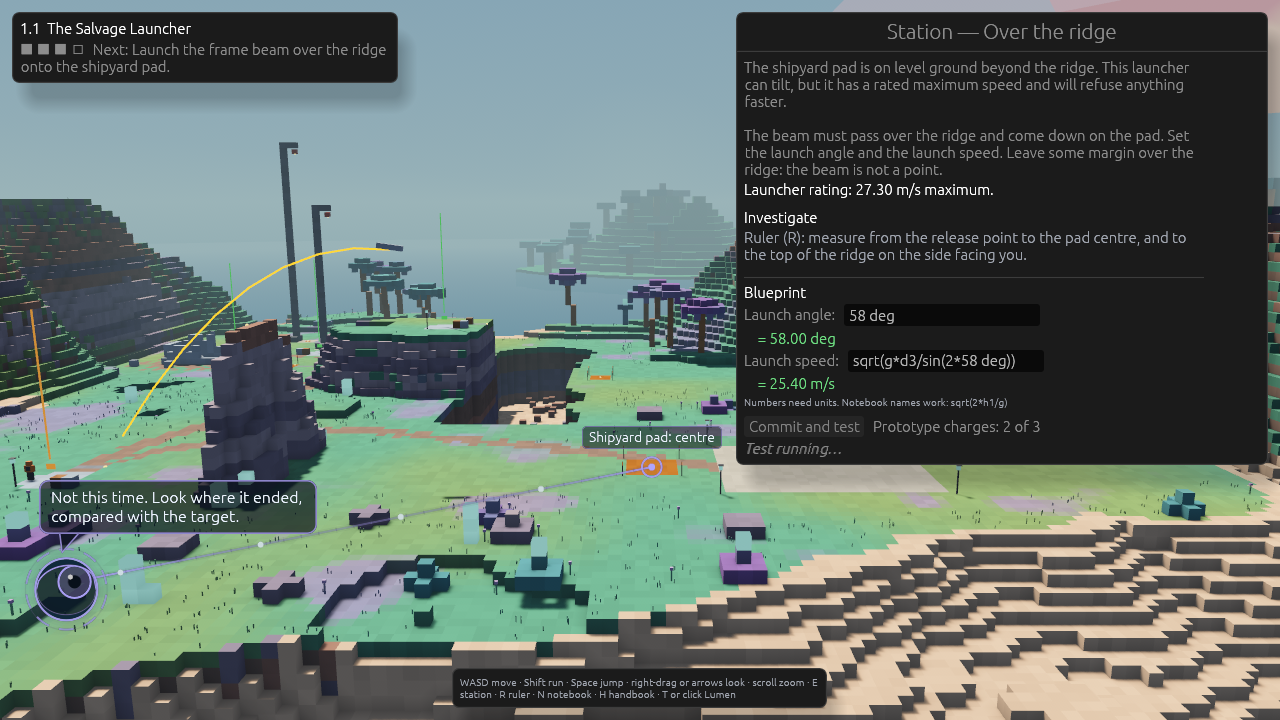
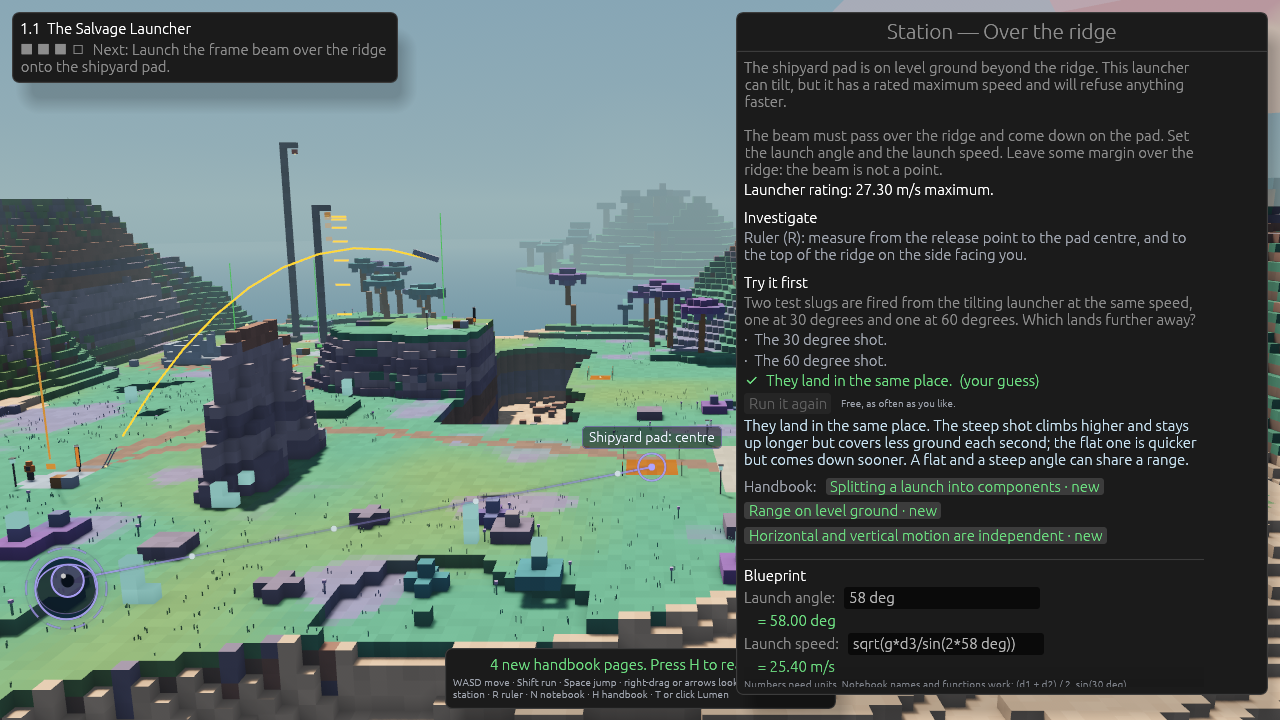
Tour the experiments and the rig; document how pages are found
- The tour guesses and runs each station's experiment, checks the pages it
  writes, shows the handbook with a locked page early and focused on a page
  at the end, and photographs the launcher rig.
- Design, curriculum, architecture and tutor docs describe the experiments,
  pages found in the world, and the rig. README shows the canyon experiment;
  the test screenshot is refreshed.

Claude-Session: https://claude.ai/code/session_01LwuCMLCEoEA1VxoJBbuWy1

diff --git a/game/src/devscript.rs b/game/src/devscript.rs
@@ -183,6 +183,7 @@ fn tour(game: &Game, sites: &Sites) -> Vec<Step> {
         Shot("11a_drop_and_fire"),
         WaitIdle,
         ExpectFound { page: "independence", within: 2.0 },
+        Wait(0.5),
         Shot("11b_drop_and_fire_landed"),
         Wait(3.0),
         RulerPin(4),
@@ -219,6 +220,7 @@ fn tour(game: &Game, sites: &Sites) -> Vec<Step> {
         Shot("16a_two_angles"),
         WaitIdle,
         ExpectFound { page: "range", within: 2.0 },
+        Wait(0.5),
         Shot("16b_two_angles_landed"),
         Wait(3.0),
         RulerPin(6),
@@ -231,6 +233,14 @@ fn tour(game: &Game, sites: &Sites) -> Vec<Step> {
         Wait(2.0),
         Shot("17_ridge_struck"),
         Draft(3, vec![format!("{angle} deg"), format!("sqrt(g*d3/sin(2*{angle} deg))")]),
+        // The launcher shows the blueprint before anything is committed: the arm tilts, the gauge fills.
+        Watch(Some(sites.ridge_launch.origin + sites.ridge_launch.direction * 1.5 + Vec3::Y * 1.2)),
+        Look { yaw: -0.75, pitch: 0.2, distance: 9.5 },
+        Wait(1.5),
+        Shot("17b_launcher_shows_the_blueprint"),
+        Watch(None),
+        Look { yaw: -1.15, pitch: 0.4, distance: 34.0 },
+        Wait(0.5),
         Commit(3),
         Wait(1.8),
         Shot("18_ridge_flight"),

diff --git a/docs/curriculum.md b/docs/curriculum.md
@@ -84,12 +84,17 @@ value never works. All lengths are whole metres so they can be checked by counti
 - **Pass.** The cart stops on the marker (one block, so centre ± 0.5 m). Too short or too far is
   reported in metres. The rail is 24 m long; longer runs are refused.
 - **Gates.** Puzzle 1 requires it.
+- **First page.** The first value committed here, tested or refused, writes *Measurements carry
+  units*: the handbook is met in the tutorial.
 
 ### Puzzle 1 — Local gravity
 
 - **Brief.** The launcher needs this planet's gravitational acceleration.
 - **Investigate.** Measure the drop tower's height with the ruler. Release the test mass and time the
   fall with the stopwatch (free, repeatable).
+- **Try it first.** "How will flashes at equal moments be spaced?" Evenly / further apart lower down /
+  closer together. The release is the experiment: the flashes leave afterimages and ticks whose
+  gaps grow. Writes the page *Free fall*.
 - **Predict.** Enter `g`.
 - **Test.** A second mass is released from the taller survey mast. The station shows the fall time
   predicted from the player's `g` beside the measured one.
@@ -102,6 +107,10 @@ value never works. All lengths are whole metres so they can be checked by counti
 - **Brief.** Launch a salvage crate horizontally from the ledge so it lands on the platform on the far
   side.
 - **Investigate.** Ruler: horizontal distance to the platform centre, and the drop from the ledge.
+- **Try it first.** "One crate dropped, one fired sideways, at the same moment: which reaches the
+  canyon floor first?" Both at once. The fired crate is slow enough to land mid-canyon; both fall the
+  ledge plus the canyon's depth, not the drop to the platform, so the time is not the puzzle's.
+  Writes *Horizontal and vertical motion are independent*.
 - **Predict.** Enter the launch speed.
 - **Pass.** The crate lands on the platform (centre ± 1.5 m).
 - **Relations.** `t = sqrt(2h/g)`, `d = v t`.
@@ -111,6 +120,9 @@ value never works. All lengths are whole metres so they can be checked by counti
 - **Brief.** Launch the frame beam over the ridge onto the shipyard pad. The launcher has a maximum
   speed.
 - **Investigate.** Ruler: distance to the pad, distance to the ridge, height of the ridge.
+- **Try it first.** "Two slugs at the same speed, 30 and 60 degrees: which lands further away?" The
+  same place, at 0.6 of the distance to the ridge, well short of it. Writes *Splitting a launch into
+  components* and *Range on level ground*.
 - **Predict.** Enter the launch angle and the launch speed.
 - **Pass.** The beam passes over the ridge without touching it and lands on the pad (5 m long, so
   centre ± 2.5 m). The tracked point is the beam's underside; the brief tells the player to leave margin.

diff --git a/docs/game-design.md b/docs/game-design.md
@@ -69,7 +69,11 @@ Every puzzle runs through the same five steps at a **station** (a workbench in t
 
 1. **Brief.** What the ship part must do, as a specification with tolerances.
 2. **Investigate.** Measure the world. Readings go to the notebook under a short name (`h1`, `t1`).
-   Experiments in this step are free and repeatable.
+   Each physics station also has an experiment to **try first**. It shows the idea the puzzle rests
+   on: a strobe on the falling test mass, a crate dropped beside one fired off the ledge, two shots
+   at complementary angles. The player picks what they expect from a few choices (no numbers), then
+   watches. Experiments are free and repeatable and give no answer away. Watching one writes its
+   pages into the handbook.
 3. **Predict.** Enter values, with units, in the blueprint panel. The calculator accepts expressions
    over notebook names (`(d1 + d2) / 2`, `sin(30 deg)`). Examples in the interface show how to write
    an expression, never which relation to use.
@@ -109,8 +113,14 @@ Unlocked as the curriculum needs them.
 - **Notebook.** Every reading, named, with its unit and where it came from. Entries are variables in
   the calculator.
 - **Calculator.** Unit-aware. `12 m / 1.5 s` gives `8 m/s`; `3 m + 2 s` is an error that says why.
-- **Handbook.** Materials table and the concept cards unlocked so far (definitions and relations,
-  no worked answers).
+- **Handbook.** Materials table and the concept pages found so far (definitions and relations,
+  no worked answers). A page is written when the player sees what it describes happen: an
+  experiment, or for the first page, the tutorial's first commit. Until then it is listed as locked,
+  with where to find it. Lumen announces new pages, each station has buttons for the pages its job
+  uses, and after a miss Lumen names the page worth rereading.
+- **Launchers show the blueprint.** As a value is typed, the tilting launcher's arm swings to the
+  angle and a gauge beside each launcher fills to the speed, against the launcher's rating. The
+  player's number is visible in the world before it is committed; the path is never previewed.
 - **Grapher** (tier 2 onward). Plot a notebook series; read slopes and areas.
 
 ## Avatar, camera, controls

diff --git a/docs/tutor.md b/docs/tutor.md
@@ -22,7 +22,10 @@ The guarantee does not rest on instructions to the model.
 
 One snapshot per message, built at the moment the player sends it:
 
-- chapter and puzzle title, the brief, the concepts being taught;
+- chapter and puzzle title, the brief, the concepts being taught and which of their pages the player
+  has found;
+- the station's experiment: its question and choices, the player's guess before the first run, and
+  what happened (or that it has not been watched);
 - what the puzzle asks for (each input, with its dimension);
 - the player's notebook (every reading taken so far);
 - the values currently typed in the blueprint, if any;
@@ -49,6 +52,8 @@ from a wrong method. Keeping the answer from the player is handled below.
 9. You cannot act in the game. If asked to, say so and tell the player how to do it themselves.
 10. Everything marked private is for judging the player's reasoning, never for quoting.
 11. To draw the player's eye to a place, write `[look: NAME]` with a listed name; at most one per reply.
+12. Build on what the player saw in the station's experiment and name handbook pages by their titles; if
+    a page the puzzle needs is not found yet, send the player to the experiment.
 
 ## Answer-leak filter
 
@@ -59,8 +64,8 @@ before it is shown:
   player would naturally use, such as degrees for an angle);
 - a number within 2 % of an answer is replaced with `[yours to work out]`;
 - where many answers work (the ridge), the whole working range is guarded when followed by its unit;
-- numbers the player already has (notebook readings, values in the brief, numbers they typed in the
-  chat) are never redacted;
+- numbers the player already has (notebook readings, values in the brief, the experiment's question
+  and choices, numbers they typed in the chat) are never redacted;
 - while a reply is still streaming, a number that is still arriving is held back until it is complete.
 
 The filter is deliberately simple and errs on the side of redacting.

diff --git a/docs/architecture.md b/docs/architecture.md
@@ -23,6 +23,8 @@ Nothing depends on `game`.
 | `ballistics` | closed-form projectile motion: position at a time, time and place of landing, height at a distance |
 | `materials` | the materials table (density, specific heat, conductivity, resistivity, colour) |
 | `puzzle` | chapter and puzzle definitions, seeded instance generation, evaluation of committed inputs, worked solutions |
+| `demo` | each station's experiment, decided in closed form like a test: strobe times, the dropped and fired crates, the two-angle shots |
+| `content` | chapter words as data: briefs, concept pages and where each is found, experiment questions |
 | `notebook` | named readings; the calculator's variables |
 | `save` | progress record (seed, attempts, completed puzzles, notebook) |
 
@@ -47,7 +49,8 @@ it had. What the engine does afterwards cannot change the result.
 | `voxel` | fixed-size block grid, island generator driven by the chapter layout, face-culling mesher, ray cast |
 | `player` | avatar, kinematic movement against the block grid, orbit camera |
 | `stations` | station entities, proximity and interaction, the active puzzle |
-| `sim` | experiment and test playback, hand-off to the physics engine |
+| `sim` | experiment and test playback, hand-off to the physics engine, handbook pages written by what is seen |
+| `rig` | launchers that show the blueprint: the tilting arm and the speed gauges |
 | `ruler` | two-point measurement tool |
 | `ui` | panels: station (brief, instruments, blueprint, result), notebook and calculator, handbook, chat |
 | `shipyard` | ship parts that appear as chapters complete |

diff --git a/README.md b/README.md
@@ -8,6 +8,12 @@ This repository holds the design and a playable slice: tier 1, chapter 1 (kinema
 
 ![A test in progress](docs/screenshots/test.png)
 
+Each station starts with an experiment to try before any calculation. You guess what will happen,
+then watch: a crate dropped and a crate fired sideways reach the canyon floor together. What you see
+writes the matching page of your handbook (H), and the stations point you to the pages they need.
+
+![The canyon's experiment: guess, then watch](docs/screenshots/experiment.png)
+
 ## Run
 
 Needs Rust 1.97.1 or newer. The first build takes a while (the engine is large).
